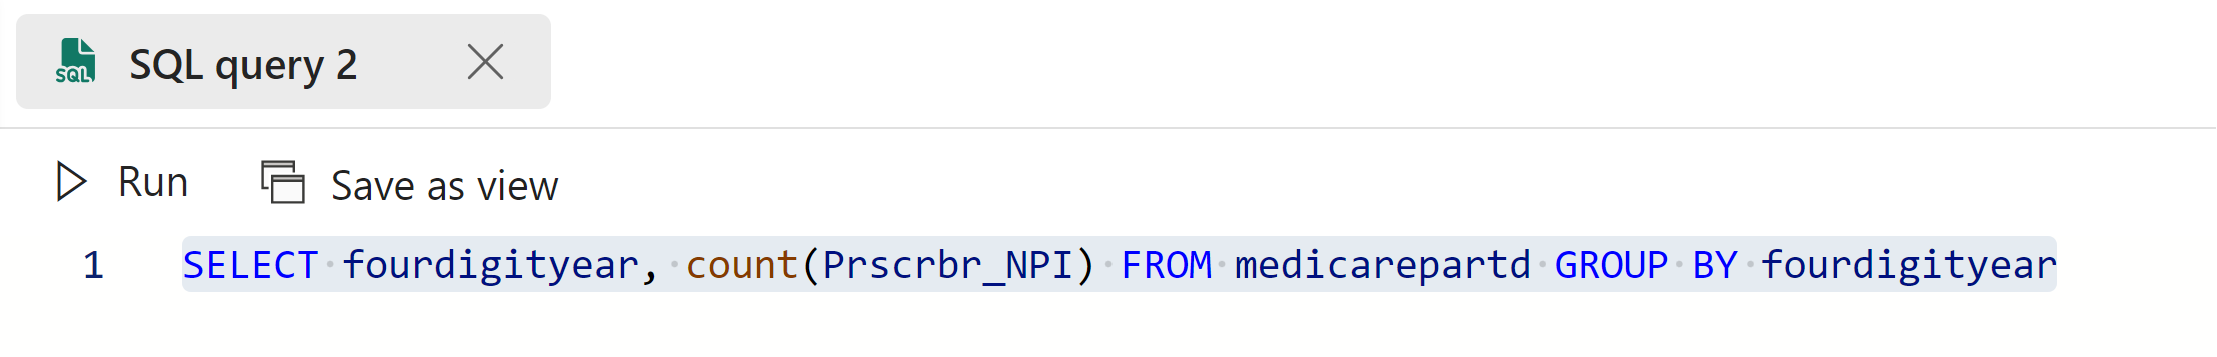
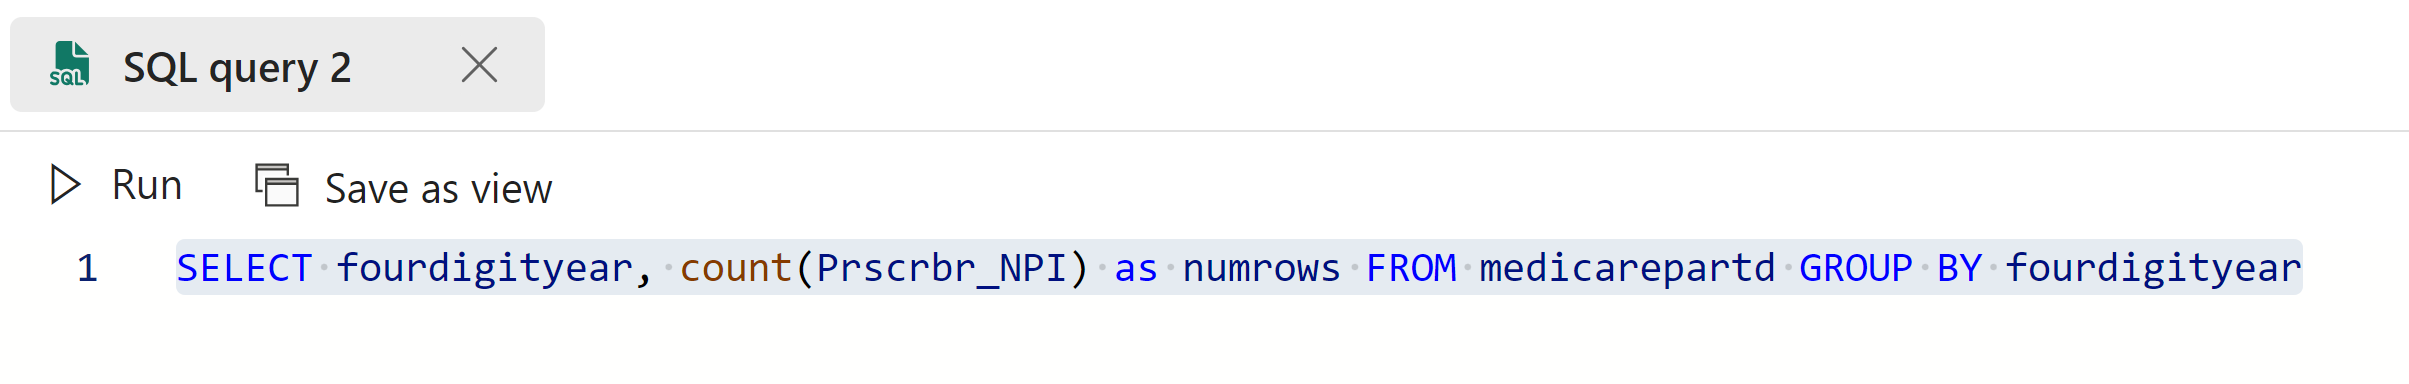
donesqlep

diff --git a/README.md b/README.md
@@ -263,8 +263,7 @@ Click on New query
 Copy the existing query to count the rows loaded by fourdigityear which represents the number of rows in each yearly csv file
 
 ```
-SELECT fourdigityear, count(Prscrbr_NPI) FROM medicarepartd
-GROUP BY fourdigityear
+SELECT fourdigityear, count(Prscrbr_NPI) as numrows FROM medicarepartd GROUP BY fourdigityear
 ``````
 
 Click Run
@@ -279,5 +278,11 @@ you can click Save as view to create a view
 Click OK 
 
 ![viewname](https://raw.githubusercontent.com/datasnowman/fabriclakehouse/main/images/viewname.png)
+
+Find the view and look at the data prreview
+
+![viewdatapreview](https://raw.githubusercontent.com/datasnowman/fabriclakehouse/main/images/viewdatapreview.png)
+
+### Look at the SQL Endpoint Model
 
 
